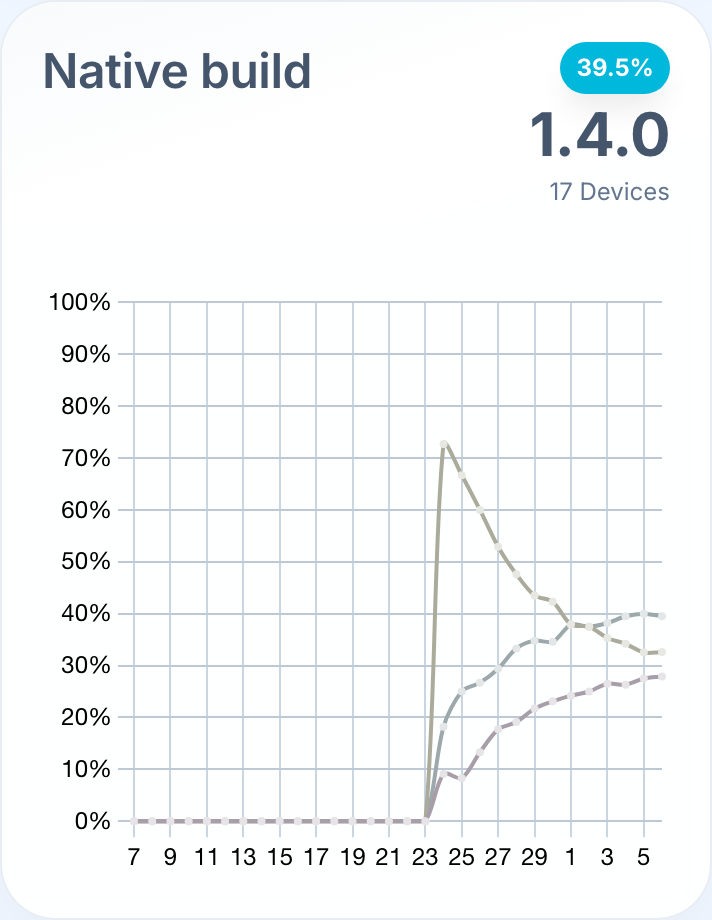
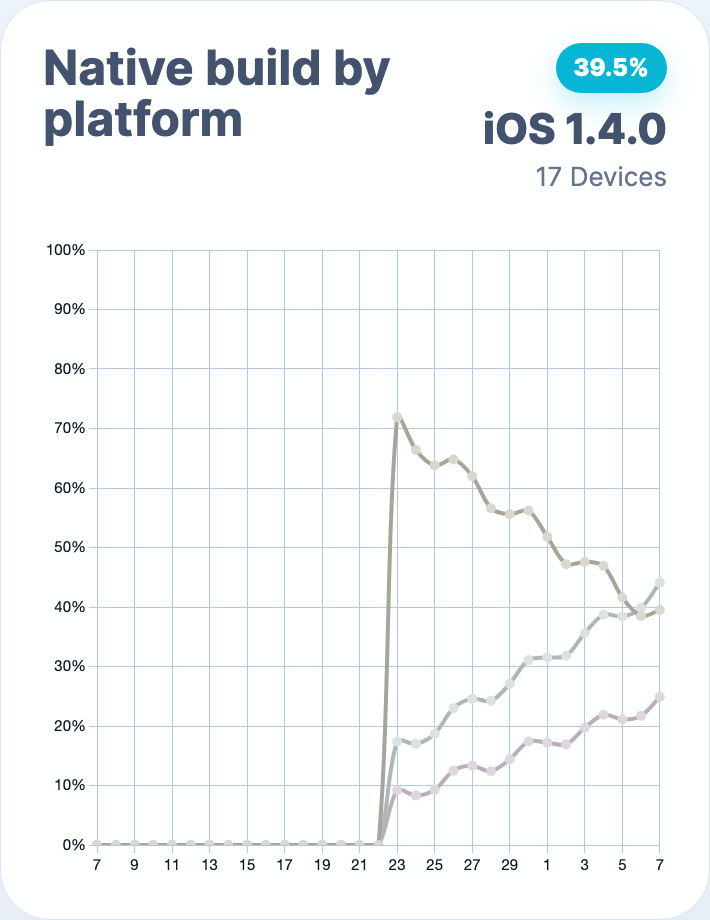
fix(stats): show platform in native usage demos

diff --git a/src/components/dashboard/DevicesStats.vue b/src/components/dashboard/DevicesStats.vue
@@ -76,7 +76,7 @@ function generateDemoDevicesData(days: number, usageKind: string = 'bundle'): { 
   }
 
   const labelsByKind = usageKind === 'native'
-    ? ['1.0.0', '1.1.0']
+    ? ['iOS 1.0.0', 'Android 1.1.0']
     : ['2.0.5', '2.1.0']
 
   return {
@@ -741,13 +741,17 @@ watch(
           {{ t(titleKey) }}
         </h2>
 
-        <div class="flex flex-col items-end text-right shrink-0">
+        <div class="flex max-w-[11rem] flex-col items-end text-right shrink-0">
           <div
             class="inline-flex items-center justify-center px-2 py-1 text-xs font-bold text-white rounded-full shadow-lg whitespace-nowrap bg-cyan-500"
           >
             {{ latestVersionPercentageDisplay }}
           </div>
-          <div v-if="latestVersion" class="text-3xl font-bold dark:text-white text-slate-600">
+          <div
+            v-if="latestVersion"
+            class="font-bold leading-tight break-words dark:text-white text-slate-600"
+            :class="isNativeUsage ? 'text-xl sm:text-2xl' : 'text-3xl'"
+          >
             {{ latestVersion.name }}
           </div>
           <div v-if="latestVersion" class="text-xs text-slate-500 dark:text-slate-400">